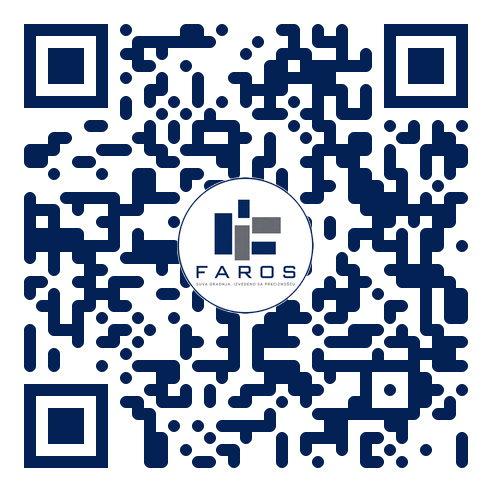
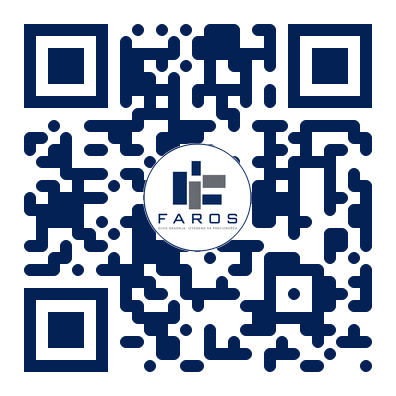
Point QR code at farosplus.com
The generated QR previously encoded the GitHub Pages preview URL
(gooliverani.github.io/_farosplus). Now that the site lives at its
own domain, encode https://farosplus.com so scans land on production.
Regenerated qr_faros.png and noted the live target in the README.

diff --git a/generate_qr.py b/generate_qr.py
@@ -26,7 +26,7 @@ from qrcode.image.styles.colormasks import SolidFillColorMask
 from PIL import Image, ImageDraw, ImageChops, ImageFilter
 
 # ── Configuration ─────────────────────────────────────────────────────────────
-URL       = "https://gooliverani.github.io/_farosplus/?"
+URL       = "https://farosplus.com"
 LOGO_PATH = Path(__file__).parent / "logo.png"
 OUT_PATH  = Path(__file__).parent / "qr_faros.png"
 

diff --git a/README.md b/README.md
@@ -43,7 +43,8 @@ python -m venv .venv
 .venv\Scripts\python.exe generate_qr.py
 ```
 
-This writes the branded QR code to `qr_faros.png`.
+This writes the branded QR code to `qr_faros.png`. The committed example
+encodes [`https://farosplus.com`](https://farosplus.com).
 
 ## Configuration
 
